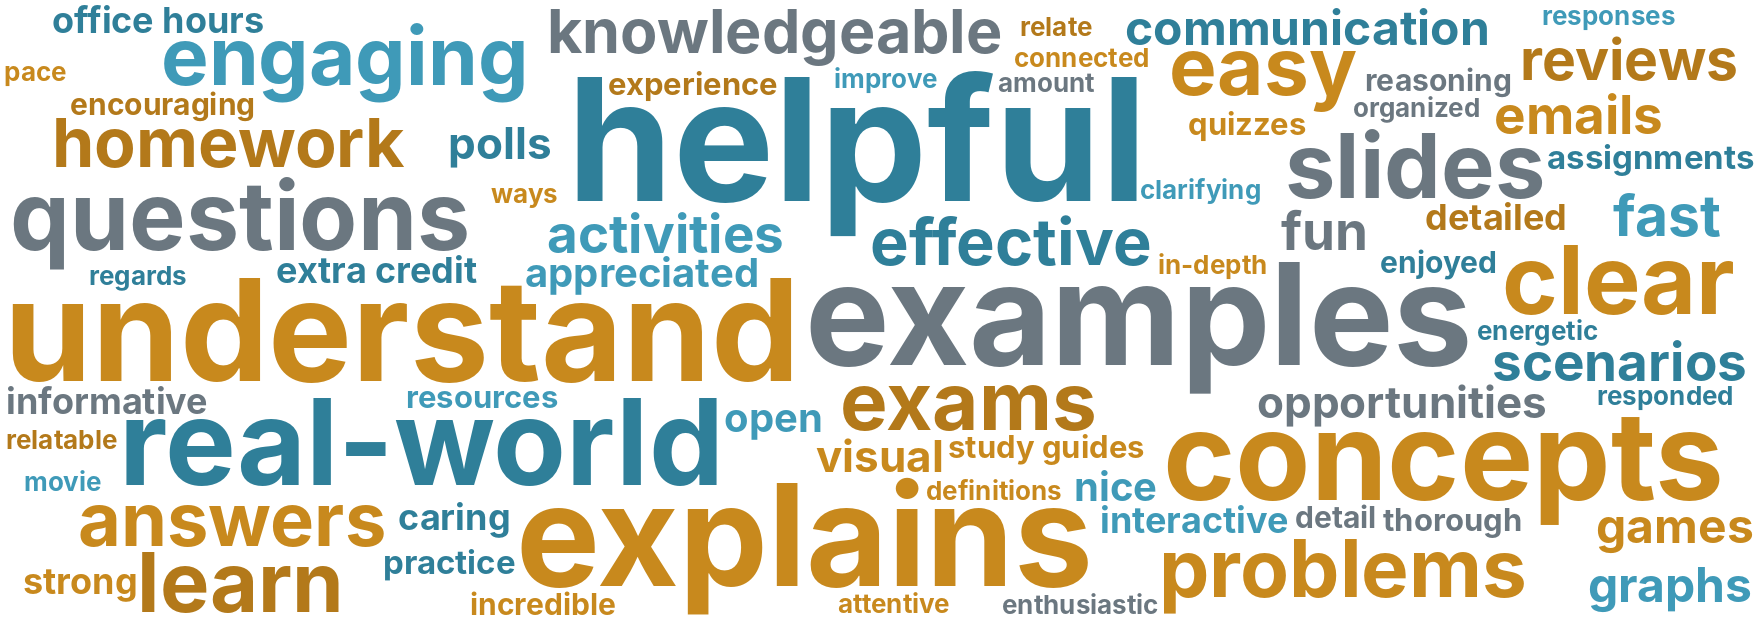
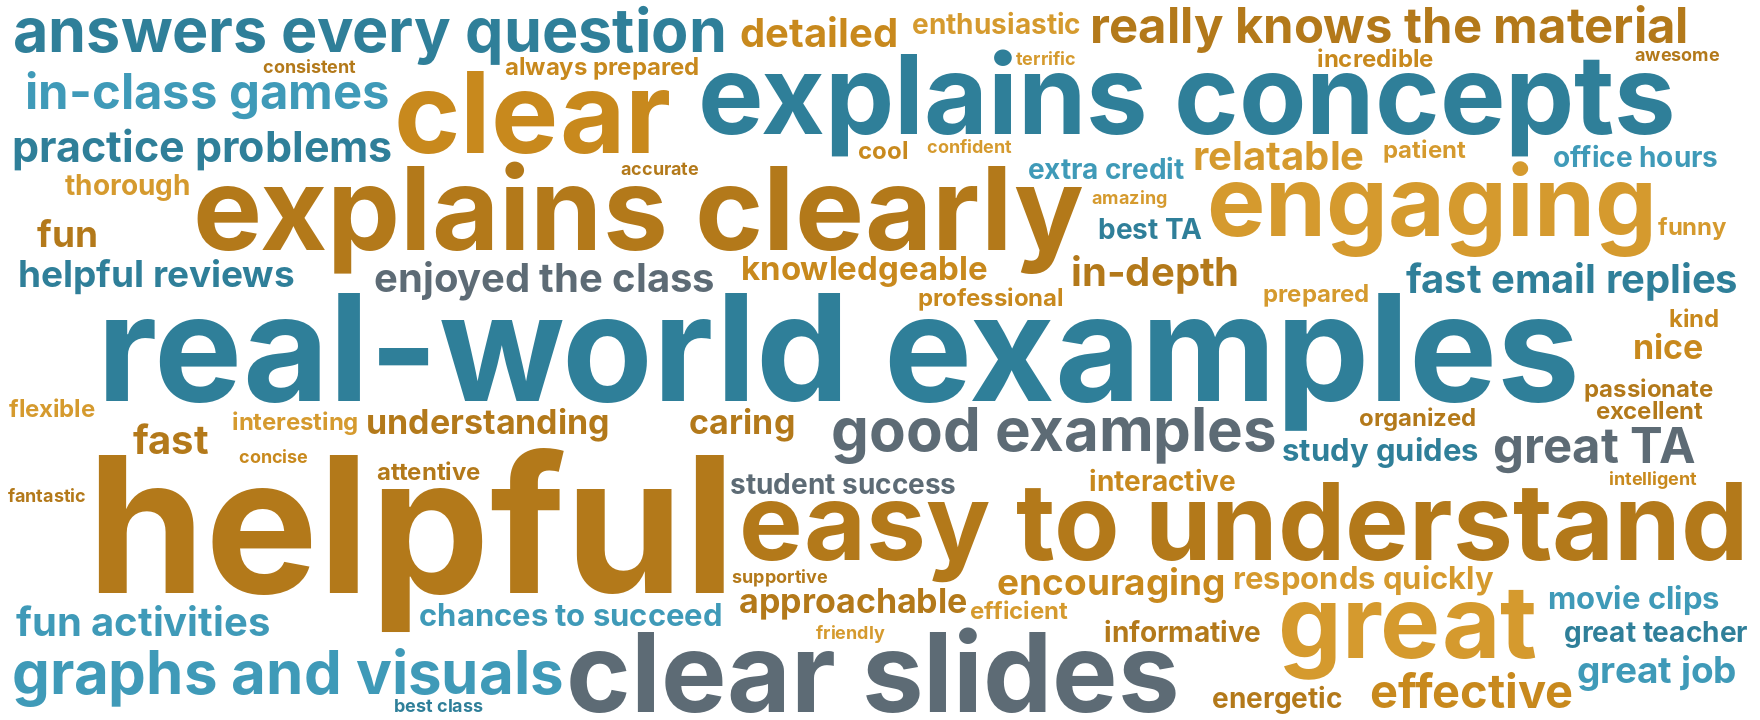
Rebuild the student comment word cloud from descriptors and phrases

diff --git a/_pages/teaching.md b/_pages/teaching.md
@@ -27,8 +27,8 @@ In a large course, fairness has to be designed in. When I took over a 530-studen
 ## Student Comments
 
 <figure class="comment-cloud">
-<img src="/images/student-comment-cloud.png" alt="Word cloud of student comments. The largest words are helpful, understand, examples, explains, concepts and real-world.">
-<figcaption>The words students used most often, from 239 positive comments across all my courses.</figcaption>
+<img src="/images/student-comment-cloud.png" alt="Word cloud of student comments. The largest entries are helpful, real-world examples, explains clearly, clear, easy to understand, explains concepts, clear slides, engaging and great.">
+<figcaption>What students said most often, from 239 positive comments across all my courses. Gold: how they described the teaching. Blue: what they pointed to. Larger means more comments.</figcaption>
 </figure>
 
 Selected comments from end-of-course surveys and official evaluations, quoted as written. Where a card shows stars, they are the rating the same student gave for overall teaching effectiveness (out of 5). Official evaluations are anonymous and do not tie a comment to a rating, so those cards show the course or section average instead.
